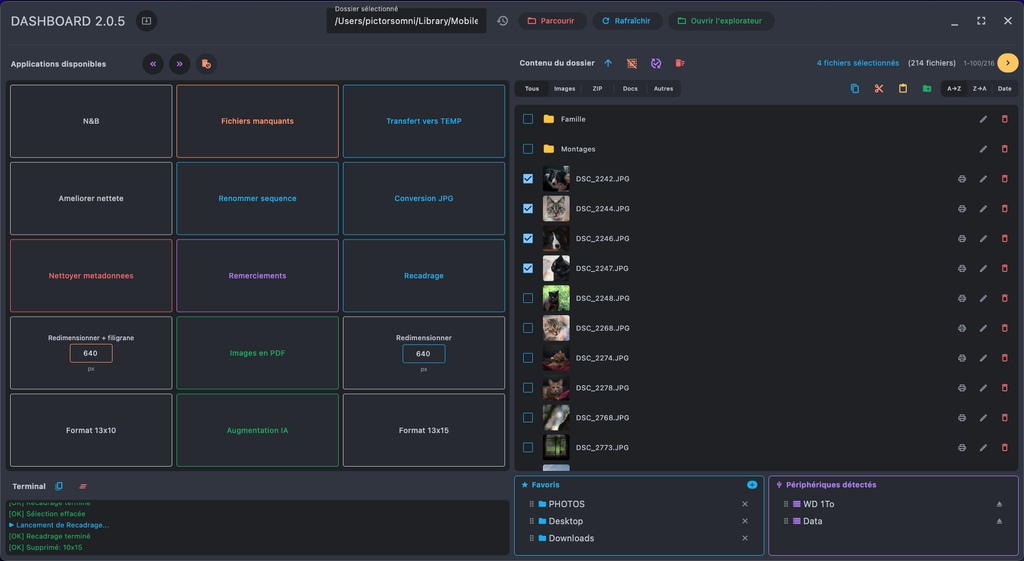
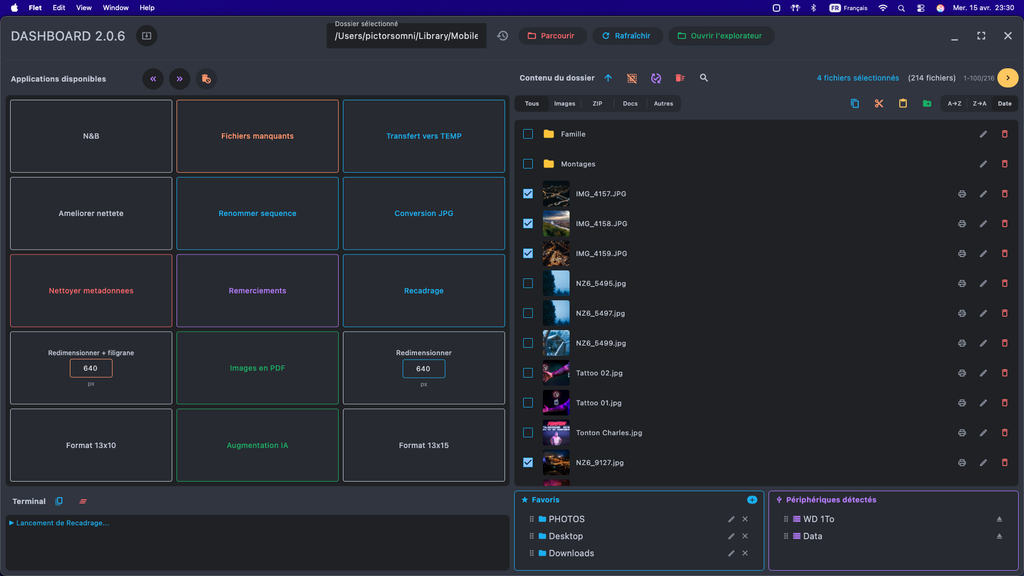
V2.0.6 add search functionality in Dashboard.pyw and enhance snackbar notifications in Recadrage.pyw

diff --git a/Data/Transfert vers TEMP.py b/Data/Transfert vers TEMP.py
@@ -18,7 +18,7 @@ Variables d'environnement :
 Dépendances : flet >= 0.21, modules standard (pathlib, shutil, datetime)
 """
 
-__version__ = "2.0.5"
+__version__ = "2.0.6"
 
 #############################################################
 #                          IMPORTS                          #

diff --git a/Data/Kiosk droite.py b/Data/Kiosk droite.py
@@ -15,7 +15,7 @@ Chemins :
 Dépendances : modules standard (sys, re, collections, pathlib, platform, shutil)
 """
 
-__version__ = "2.0.5"
+__version__ = "2.0.6"
 
 #############################################################
 #                          IMPORTS                          #

diff --git a/Data/Kiosk gauche.py b/Data/Kiosk gauche.py
@@ -14,7 +14,7 @@ Chemins :
 Dépendances : modules standard (sys, re, collections, pathlib, platform, shutil)
 """
 
-__version__ = "2.0.5"
+__version__ = "2.0.6"
 
 #############################################################
 #                          IMPORTS                          #

diff --git a/Data/Augmentation IA.py b/Data/Augmentation IA.py
@@ -52,7 +52,7 @@ sont téléchargés dans ``~/.cache/enhance_id/`` au premier usage (~350 Mo au t
 
 """
 
-__version__ = "2.0.5"
+__version__ = "2.0.6"
 
 ###############################################################
 #                         IMPORTS                             #

diff --git a/Data/Fichiers manquants.py b/Data/Fichiers manquants.py
@@ -13,7 +13,7 @@ Variables d'environnement :
   SELECTED_FILES  — chemin du dossier de destination (fichier/dossier sélectionné).
 """
 
-__version__ = "2.0.5"
+__version__ = "2.0.6"
 
 ENV_SELECTED_FILES_KEY = "SELECTED_FILES"
 OUTPUT_SELECTED_FILES_PREFIX = "SELECTED_FILES:"

diff --git a/Data/Renommer sequence.py b/Data/Renommer sequence.py
@@ -15,7 +15,7 @@ Variables d'environnement :
 Dépendances : modules standard (os, pathlib, sys)
 """
 
-__version__ = "2.0.5"
+__version__ = "2.0.6"
 
 #############################################################
 #                          IMPORTS                          #

diff --git a/Data/Conversion JPG.py b/Data/Conversion JPG.py
@@ -13,7 +13,7 @@ Variables d'environnement :
 Dépendances : Wand (ImageMagick), PyMuPDF (fitz)
 """
 
-__version__ = "2.0.5"
+__version__ = "2.0.6"
 
 #############################################################
 #                          IMPORTS                          #

diff --git a/Data/Nettoyer anciens fichiers.py b/Data/Nettoyer anciens fichiers.py
@@ -14,7 +14,7 @@ Chemins :
 Dépendances : modules standard (os, platform, pathlib, datetime)
 """
 
-__version__ = "2.0.5"
+__version__ = "2.0.6"
 
 #############################################################
 #                          IMPORTS                          #

diff --git a/Data/Remerciements.py b/Data/Remerciements.py
@@ -18,7 +18,7 @@ Variables d'environnement :
 Dépendances : Pillow (PIL), re
 """
 
-__version__ = "2.0.5"
+__version__ = "2.0.6"
 
 #############################################################
 #                          IMPORTS                          #

diff --git a/Data/2 en 1.py b/Data/2 en 1.py
@@ -14,7 +14,7 @@ Variables d'environnement :
 Dépendances : Pillow (PIL)
 """
 
-__version__ = "2.0.5"
+__version__ = "2.0.6"
 
 #############################################################
 #                          IMPORTS                          #

diff --git a/Data/Ameliorer nettete.py b/Data/Ameliorer nettete.py
@@ -13,7 +13,7 @@ Variables d'environnement :
 Dépendances : Pillow (PIL)
 """
 
-__version__ = "2.0.5"
+__version__ = "2.0.6"
 
 #############################################################
 #                          IMPORTS                          #

diff --git a/Data/Format 13x10.py b/Data/Format 13x10.py
@@ -12,7 +12,7 @@ Variables d'environnement :
 Dépendances : Pillow (PIL)
 """
 
-__version__ = "2.0.5"
+__version__ = "2.0.6"
 
 #############################################################
 #                          IMPORTS                          #
